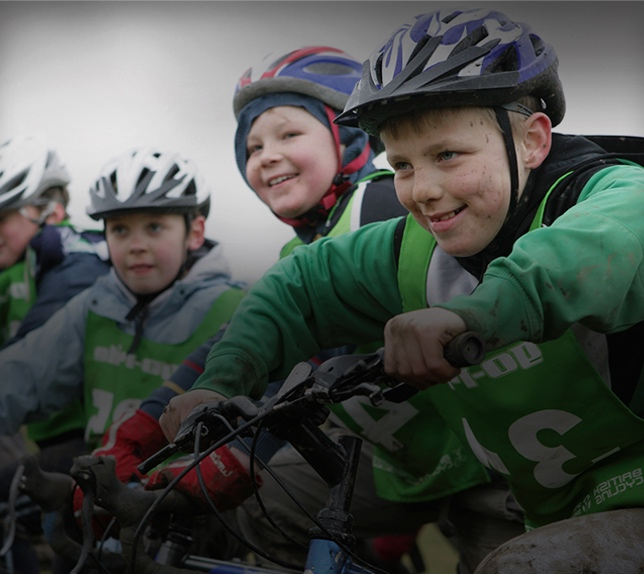
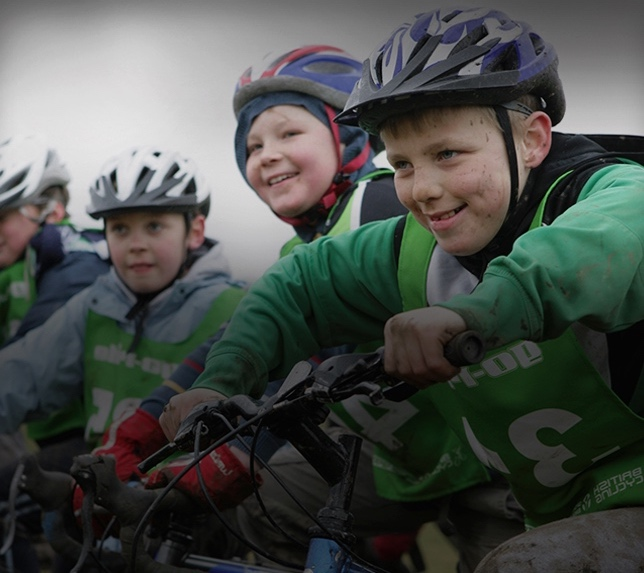
Crop off 1px artefact from mobile images

diff --git a/assets/sass/heroes.config.scss b/assets/sass/heroes.config.scss
@@ -134,7 +134,7 @@ $heroes: (
     'home-super': (
         'default': (
             'width': 644,
-            'height': 574,
+            'height': 573,
             'filename': '../images/hero/home-hero-1--small.jpg'
         ),
         'tablet': (
